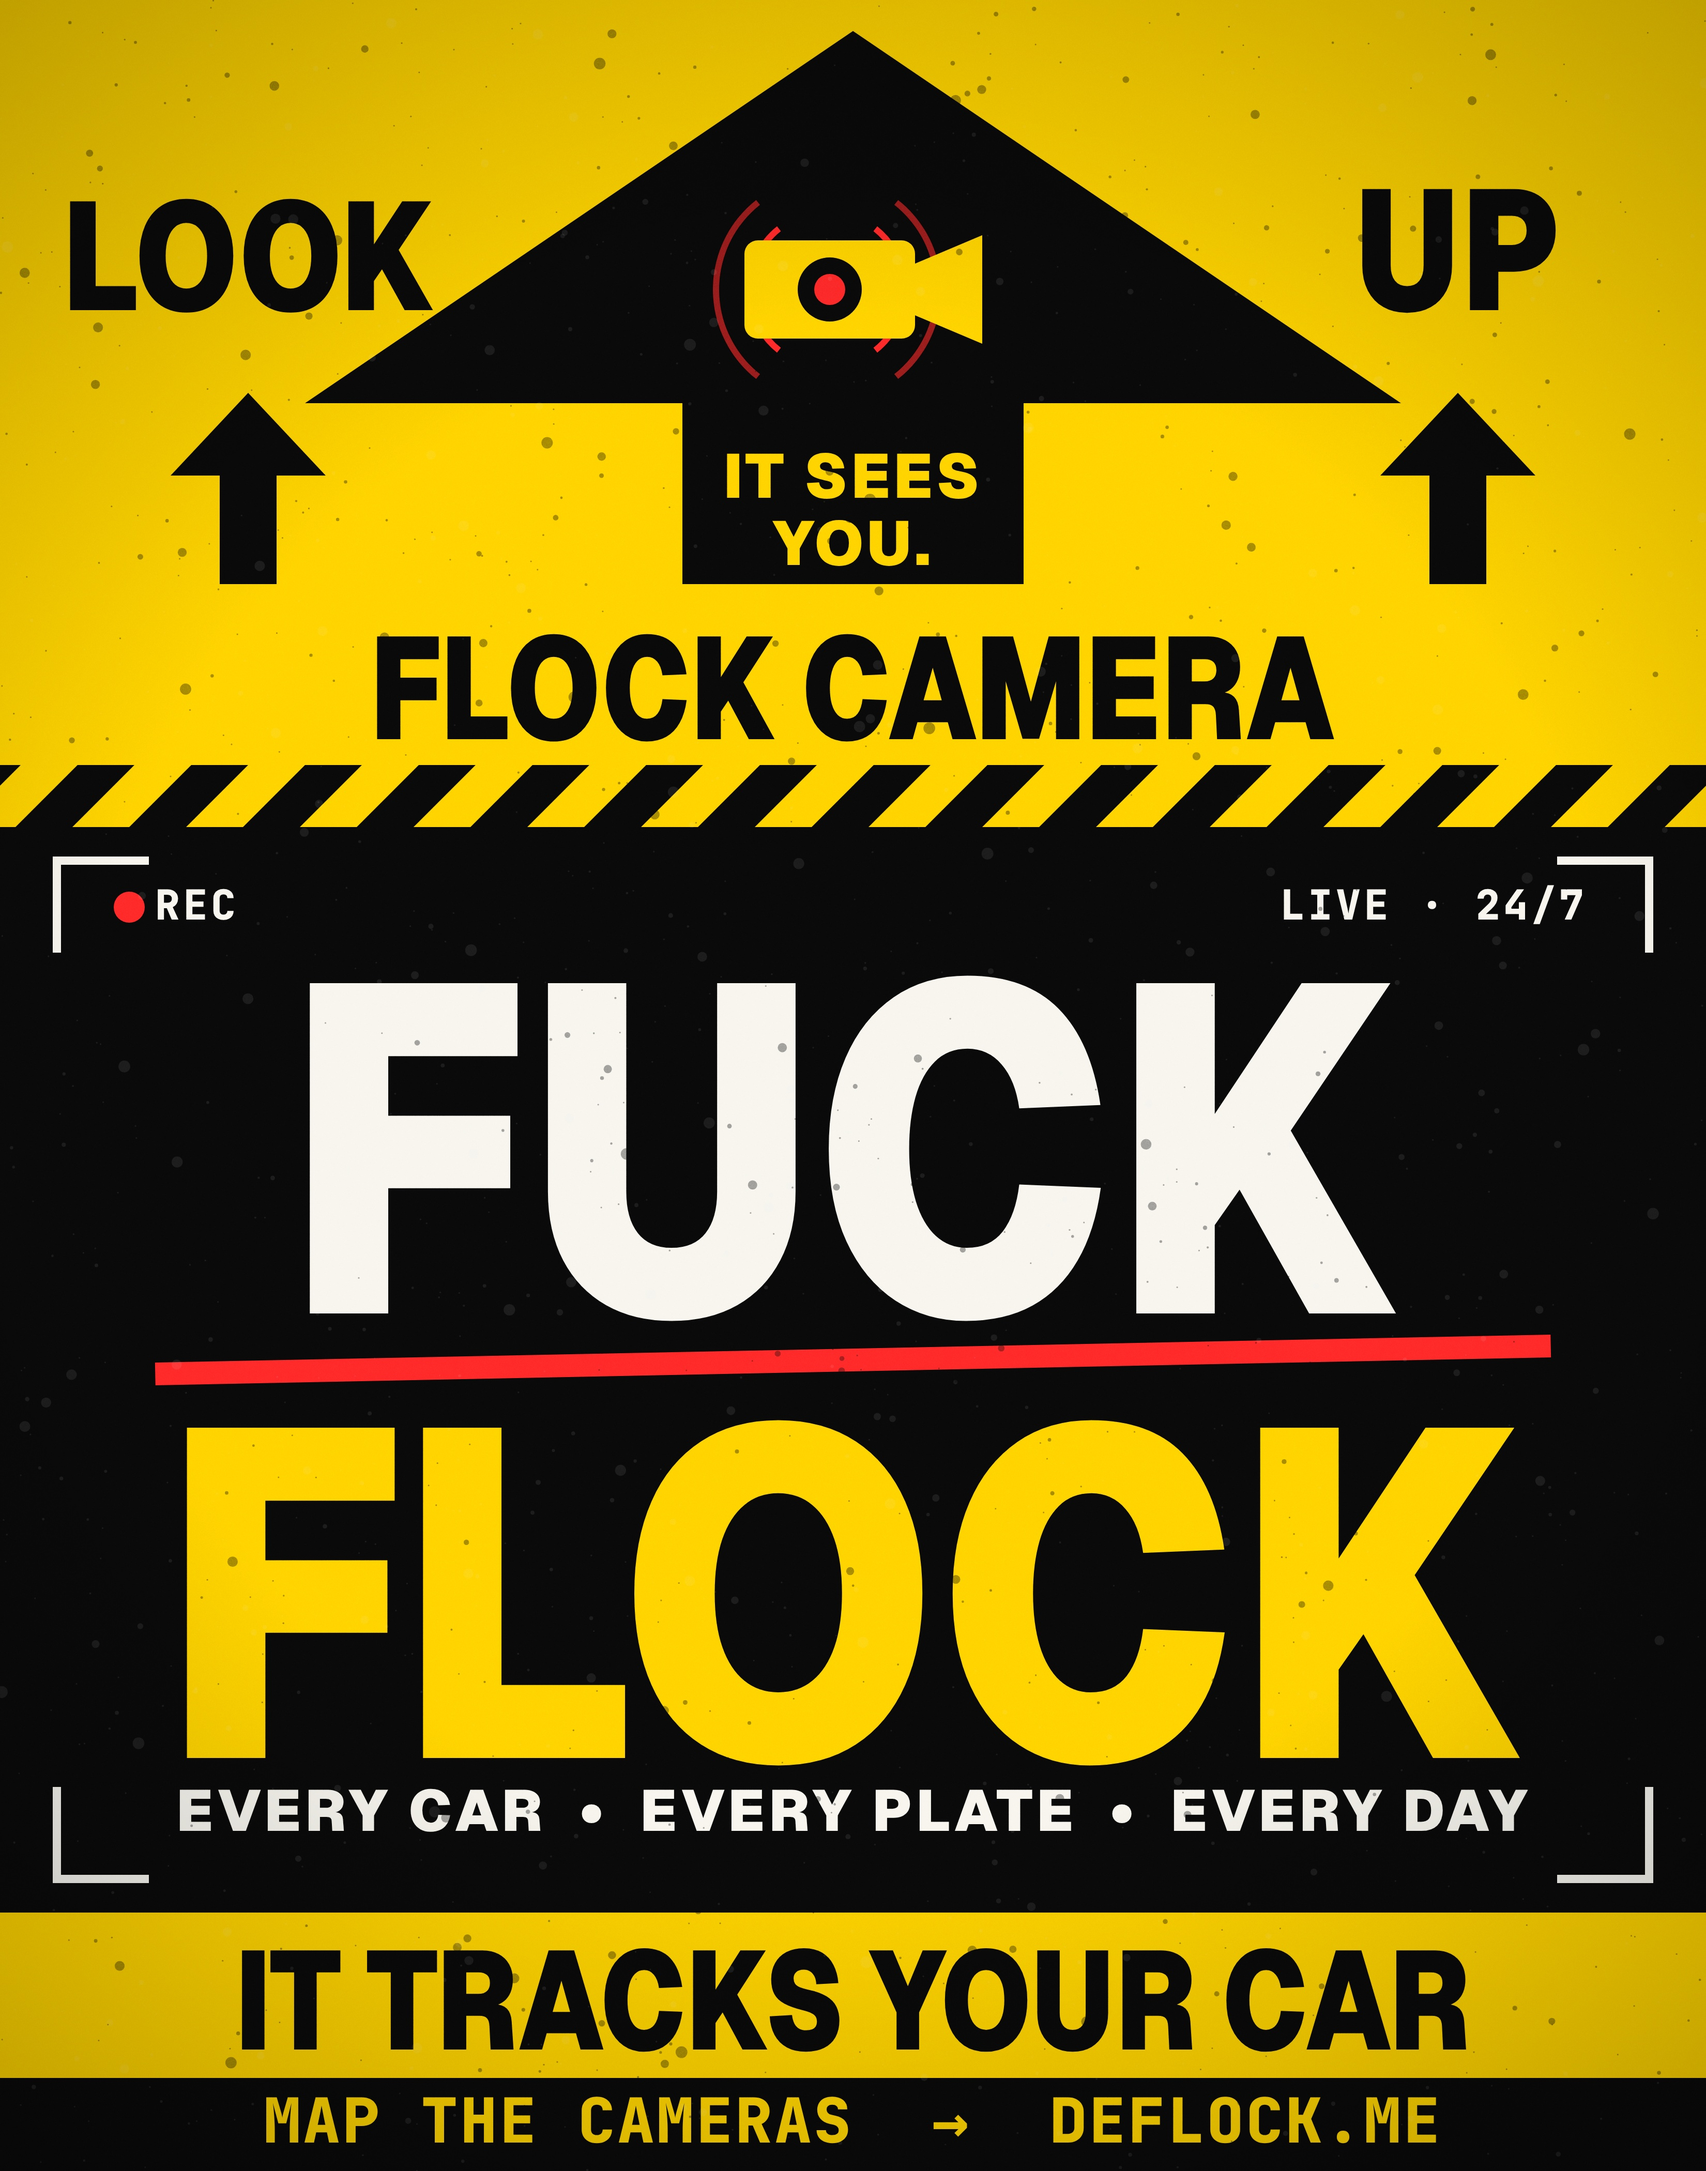
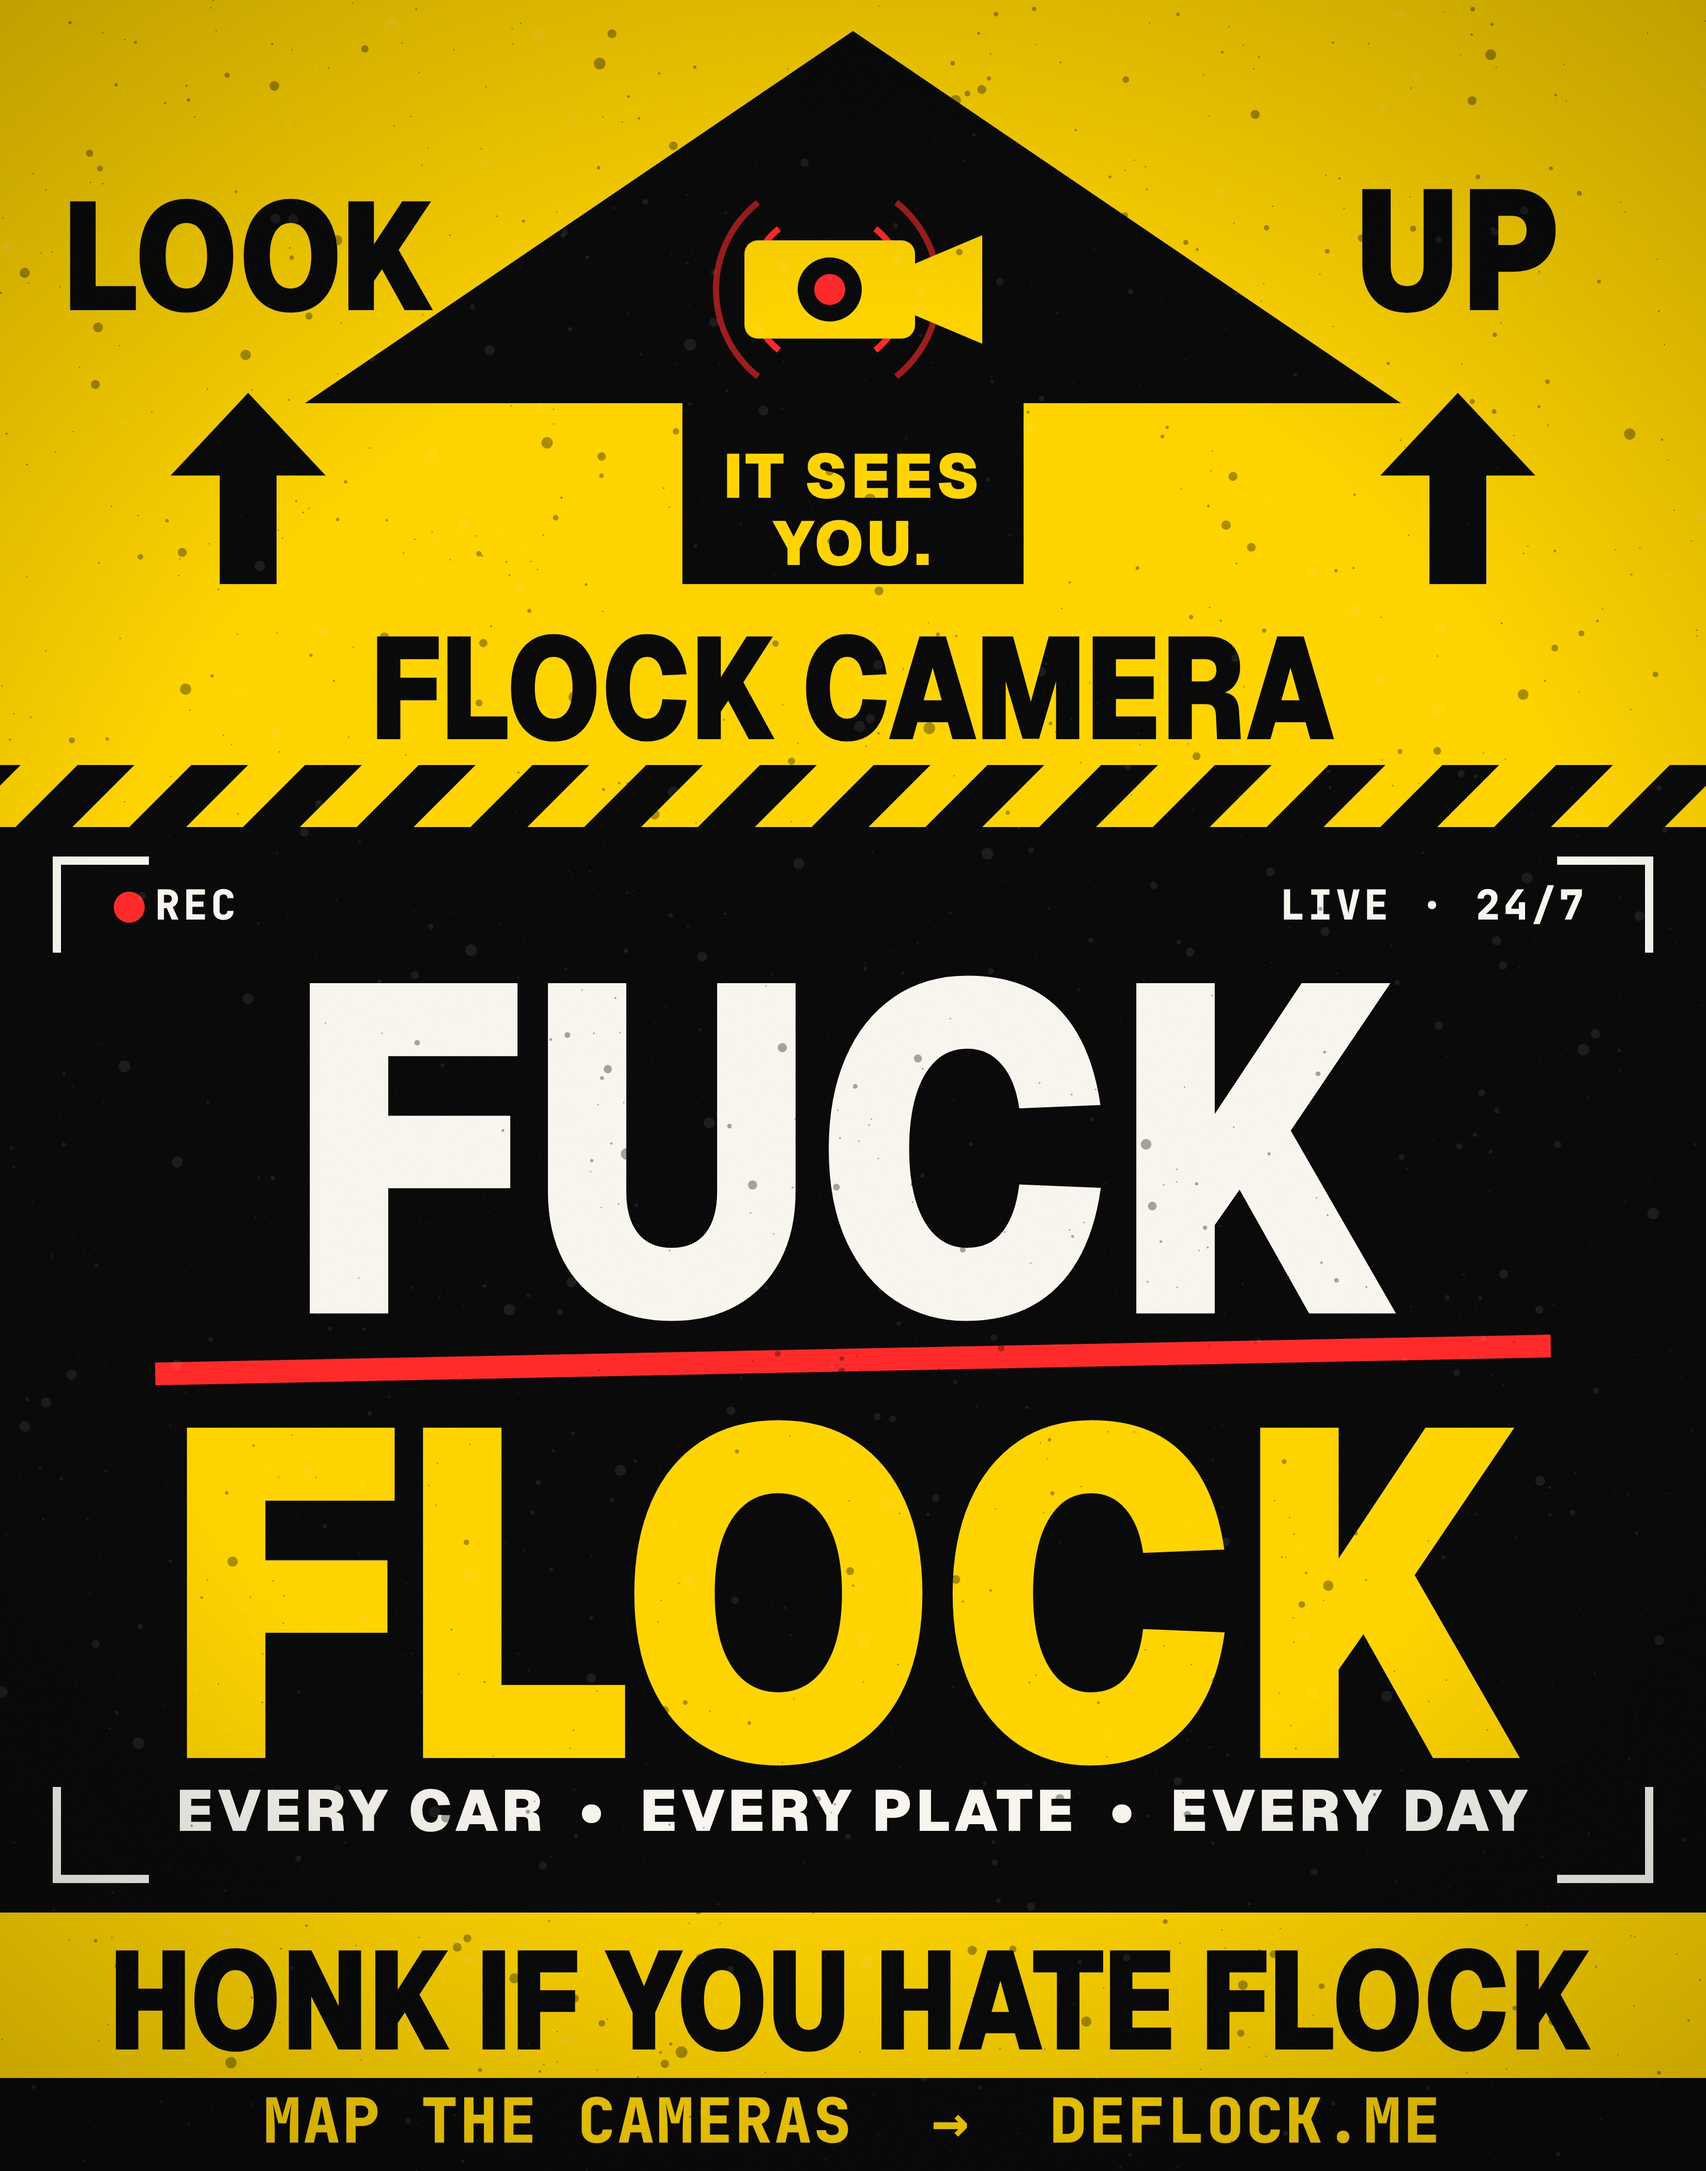
Fuck Flock poster: HONK IF YOU HATE FLOCK
Claude-Session: https://claude.ai/code/session_01NSJvdmHsHoazKiuuGVQfMY

Changed region(s): [[0.0624, 0.8733, 0.9364, 0.9669]]

diff --git a/story/flock_poster.html b/story/flock_poster.html
@@ -56,7 +56,7 @@
 
   // ---------------- bottom: why + where ----------------
   c.fillStyle = YEL; c.fillRect(0, 3700, W, 500);
-  big('IT TRACKS YOUR CAR', W / 2, 3965, 270, INK, W - 200, 0.82, 0);
+  big('HONK IF YOU HATE FLOCK', W / 2 - 5, 3965, 270, INK, W - 200, 0.82, 0);
   c.fillStyle = INK; c.fillRect(0, 4020, W, 180);
   line('MAP THE CAMERAS  →  DEFLOCK.ME', W / 2, 4112, MONO(800, 120), YEL, 'center', 4);
 
